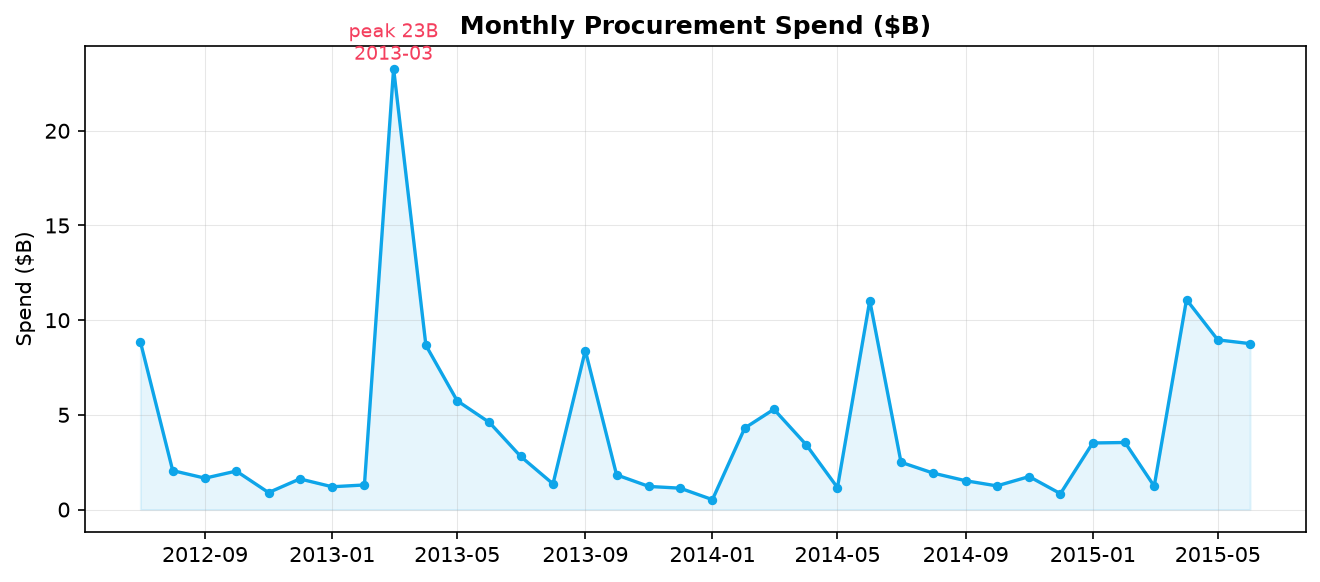
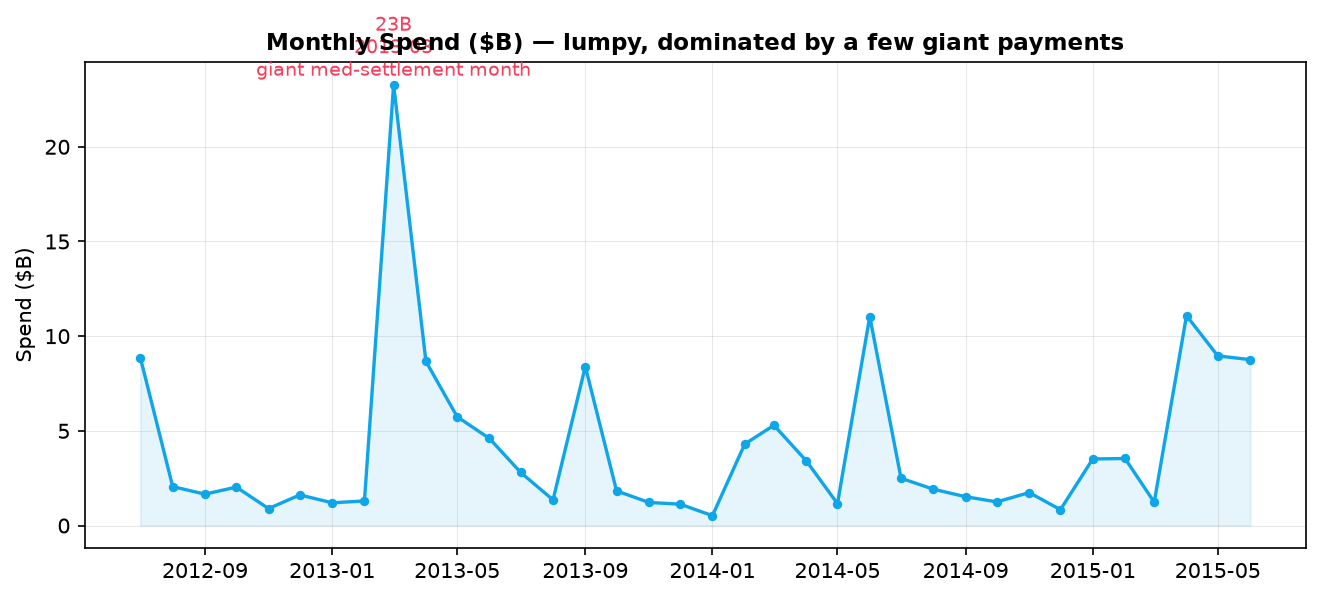
fix: reframe Mar-2013 spike as giant payment (was year-end push); lumpy spend narrative

diff --git a/index.html b/index.html
@@ -126,11 +126,11 @@
     <img src="assets/monthly_trend.png" alt="Monthly spend trend">
     <div class="why">
       <div class="tag so">Insight</div>
-      <p>Spend spikes hard in fiscal-year-end months — Mar 2013 alone = <strong>$23B</strong>, several × a normal month (Jun/Apr 2014-15 also peak). This is a classic <strong>year-end spending spike</strong> pattern, not steady procurement.</p>
+      <p>Spend is <strong>lumpy, not steady</strong>: a handful of giant medical-settlement months dominate (Mar 2013 = <strong>$23B</strong>, driven by a single <strong>$11B payment to one health plan</strong>; Apr/Jun 2014-15 spike too). Most months sit under ~$4B.</p>
     </div>
     <div class="why">
       <div class="tag rec">Action</div>
-      <p>Split large year-end payments across the fiscal year to dampen budget-execution volatility and reduce last-minute "use it or lose it" purchases; put a monthly spend-target KPI on the dashboard.</p>
+      <p>Plan cash around the <strong>health-payment calendar</strong>, not a flat monthly target; treat these one-off/large settlements as a separate reconciliation workstream rather than routine procurement.</p>
     </div>
   </div>
 

diff --git a/scripts/generate_charts.py b/scripts/generate_charts.py
@@ -47,10 +47,11 @@ fig, ax = plt.subplots(figsize=(10.5, 4.2))
 ax.plot(mt.index, mt.values, marker="o", ms=3.5, lw=1.6, color=BLUE)
 ax.fill_between(mt.index, mt.values, color=BLUE, alpha=0.10)
 peak = mt.idxmax()
-ax.annotate(f"peak {mt.max():.0f}B\n{peak:%Y-%m}",
+ax.annotate(f"{mt.max():.0f}B\n{peak:%Y-%m}\ngiant med-settlement month",
             xy=(peak, mt.max()), xytext=(peak, mt.max() * 1.02),
             ha="center", fontsize=9, color=RED)
-ax.set_title("Monthly Procurement Spend ($B)", fontsize=12, fontweight="bold")
+ax.set_title("Monthly Spend ($B) — lumpy, dominated by a few giant payments",
+             fontsize=11, fontweight="bold")
 ax.set_ylabel("Spend ($B)")
 ax.grid(alpha=0.3, lw=0.5)
 _save(fig, "monthly_trend.png")
